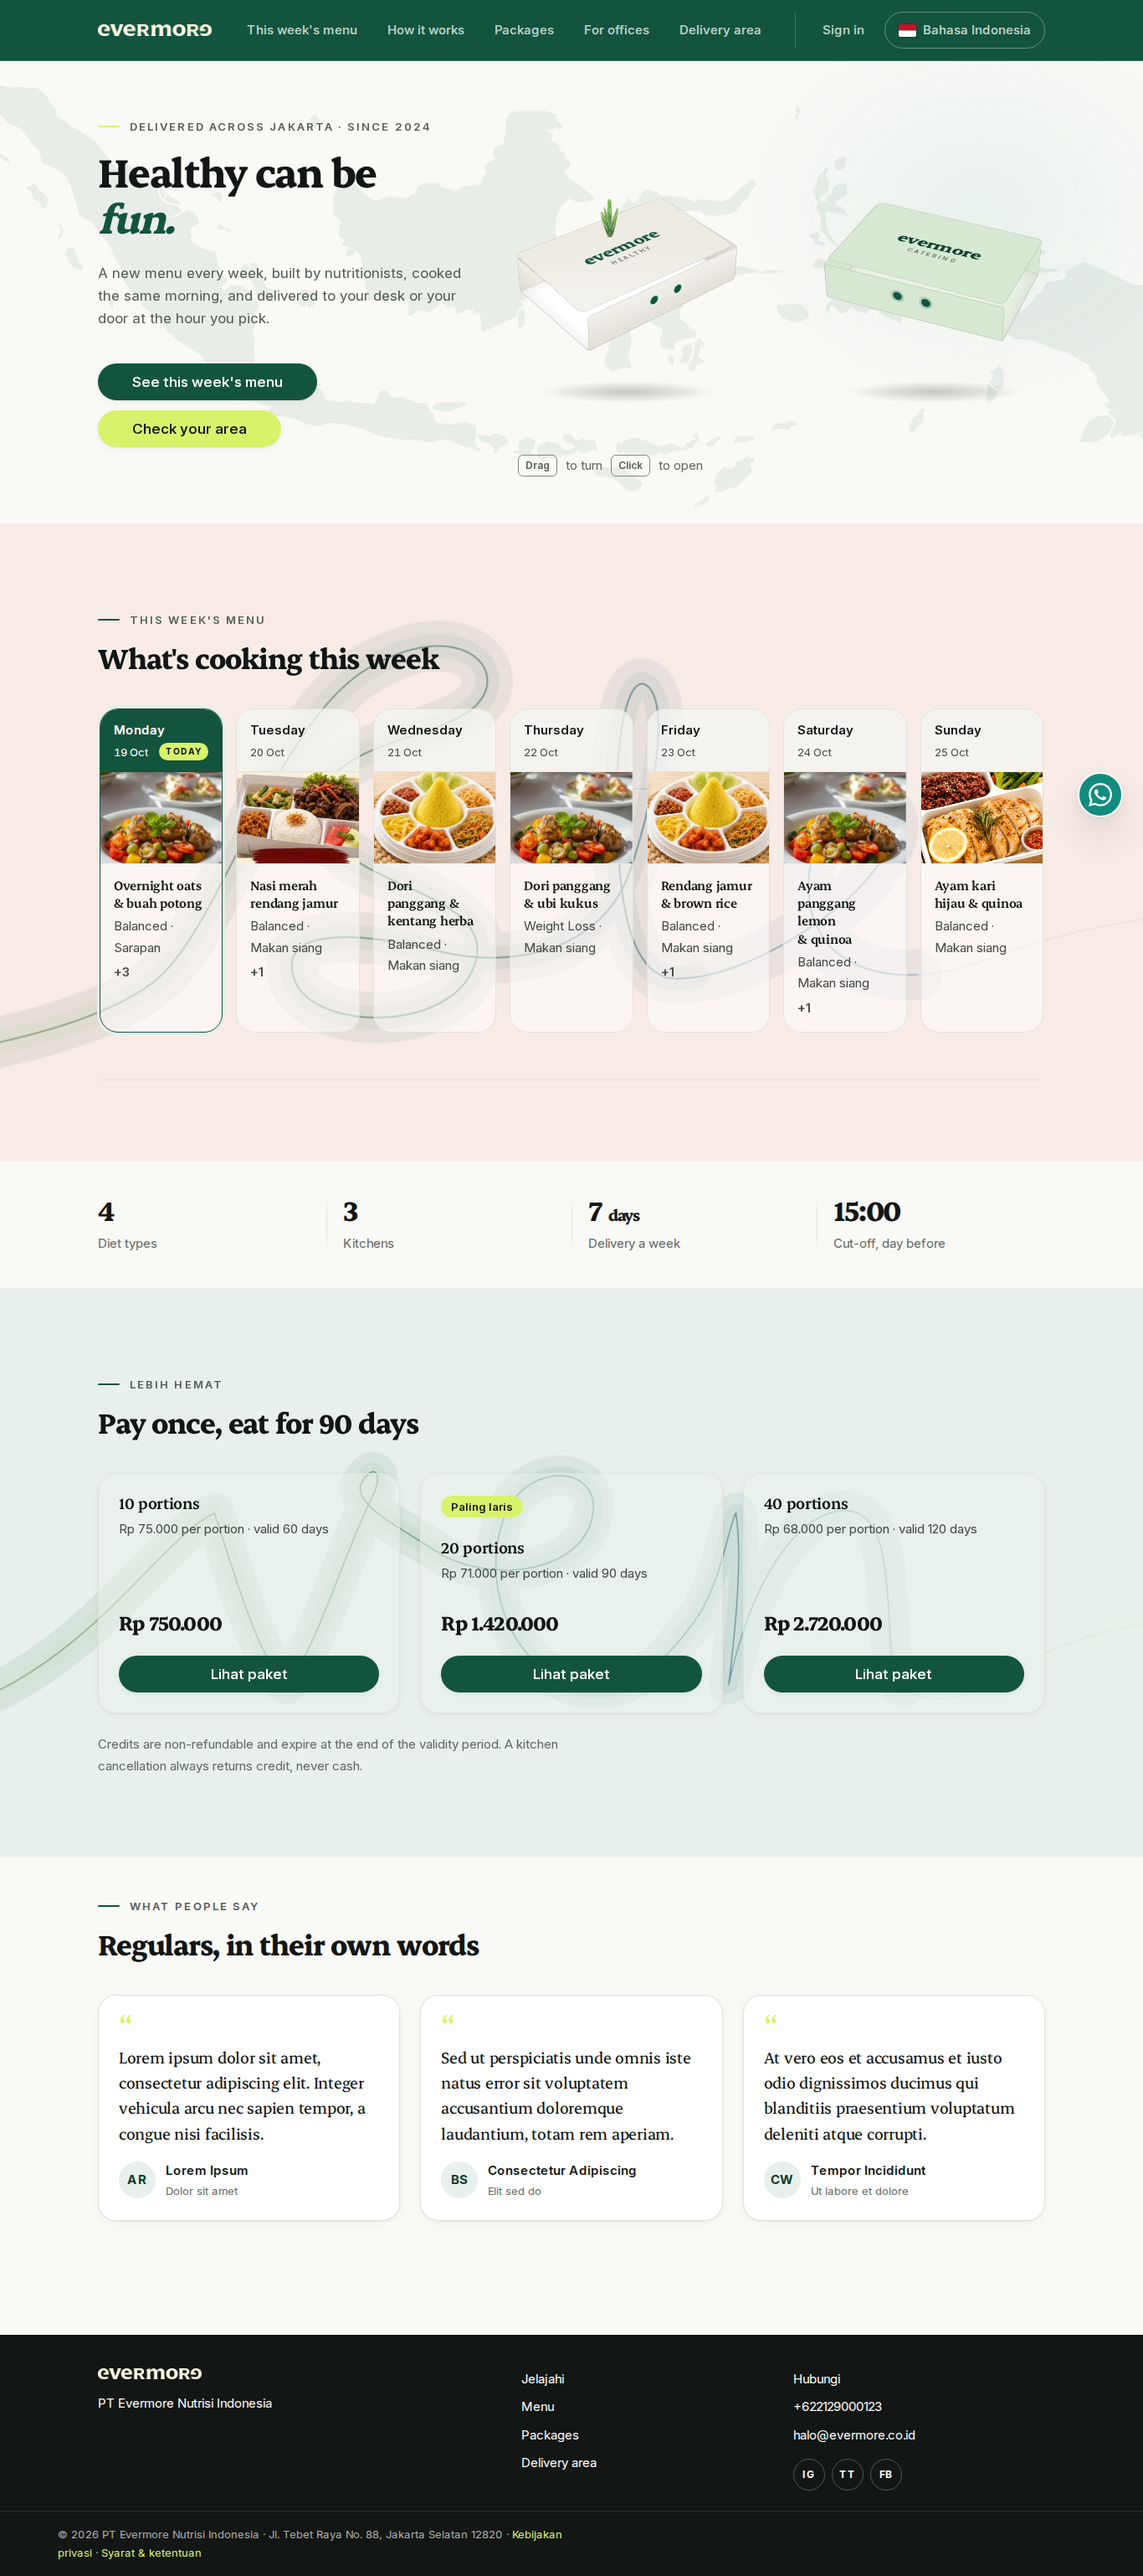
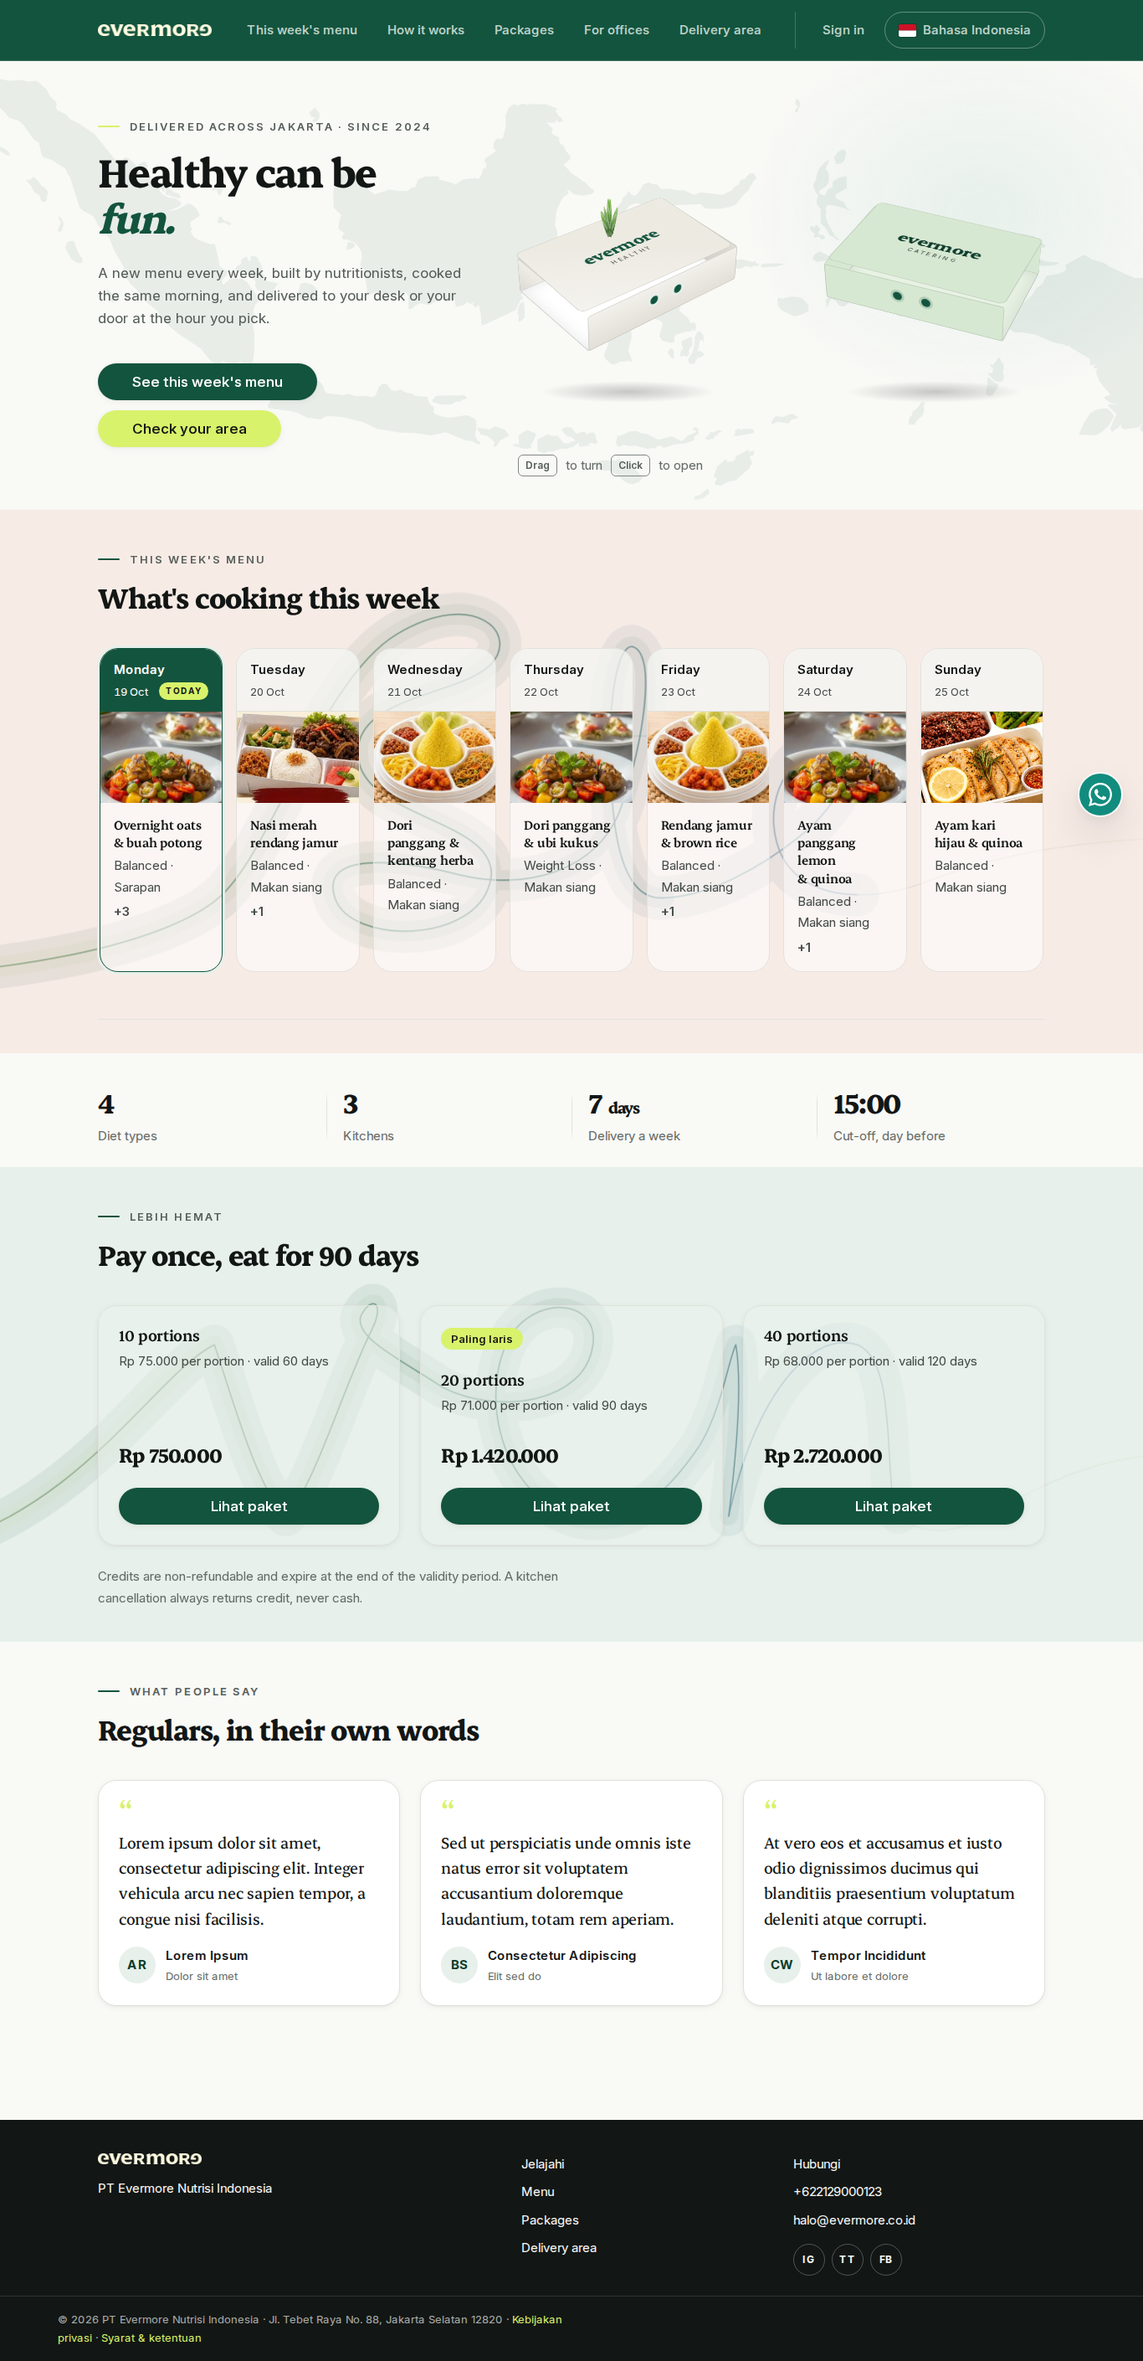
fix(home): cut the dead space above the banded headings
Measured, because "more than 5cm" deserved a number: 202px above "This week's
menu" and 162px above "Lebih hemat". Now 88px and 90px, and the page is 256px
shorter overall.

The cause was D65. Giving the bands --space-8 padding was right in isolation,
but it stacked on top of the previous section's own bottom padding, so every
seam paid twice. A band does not need 96px of lead-in when the colour change is
already doing the separating: the bands drop to --space-6, and the section
handing over to one gives up most of its trailing padding.

Checked at 1366, 1024 and 390px. The week seam is 88px at the two desktop
widths and 106px on a phone, where the hero hint wraps.

go vet, go test ./... (11 packages), contrast.py 82/82 with the sheet
cross-checked, verify-ui.mjs 0 FAIL.

Claude-Session: https://claude.ai/code/session_01StbHwjwkd6bzSruyyhJNYm

diff --git a/web/public/css/app.css b/web/public/css/app.css
@@ -69,7 +69,7 @@ main { flex: 1 0 auto; }
 /* Unless it is a band. Zero trailing padding was right when the section was
  * the same colour as everything around it; on a block of colour it cuts the
  * band off flush against the cards (D65). */
-#week.band-linen { padding-bottom: var(--space-8); }
+#week.band-linen { padding-bottom: var(--space-6); }
 #week + .section { padding-top: var(--space-6); }
 
 /* The hero already supplies the space above whatever follows it. */
@@ -78,7 +78,7 @@ main { flex: 1 0 auto; }
  * them opened ~192px of empty page. The second one halves its top. */
 .section + .section { padding-top: var(--space-6); }
 .section.tight { padding-block: var(--space-5); }
-.section.tight { padding-block: var(--space-6); }
+.section.tight { padding-block: var(--space-6) var(--space-5); }
 /* D65 — the body is banded, not one flat sheet.
  *
  * Three grounds down the page instead of one, each carrying a bit of meaning:
@@ -98,9 +98,16 @@ main { flex: 1 0 auto; }
 .band-wash   { background: var(--brand-wash); }
 /* A band is a block of colour, so it keeps even padding — `.section + .section`
  * trims the top of a run of plain sections, which would leave it lopsided. */
+/* A band needs enough padding to breathe and no more. At --space-8 it stacked
+ * 96px on top of the previous section's own bottom padding, which put 202px —
+ * over 5cm — of nothing above "This week's menu" (D68). */
 .section.band-raised,
 .section.band-linen,
-.section.band-wash { padding-block: var(--space-8); }
+.section.band-wash { padding-block: var(--space-6); }
+/* And the section handing over to a band gives up most of its trailing
+ * padding, since the colour change already does the separating. */
+.hero-full + .band-linen,
+.hero-full + .band-wash { margin-top: 0; }
 
 /* Editorial, not centred. The head sits in a narrow measure on the left and
  * the content runs wider beneath it — asymmetry is what keeps a page from
@@ -833,7 +840,7 @@ tbody tr:hover { background: var(--warm); }
 /* The hero opened with ~148px of nothing above the eyebrow once the sticky
  * header arrived. The header already supplies that separation. */
 .hero-full { padding-block: var(--space-4) var(--space-5); }
-@media (min-width: 1024px) { .hero-full { padding-block: var(--space-5) var(--space-6); } }
+@media (min-width: 1024px) { .hero-full { padding-block: var(--space-5) var(--space-5); } }
 
 /* The header was a flat row of identical links. Three changes: a hairline
  * under the hovered or current item so the target is unmistakable, a real

diff --git a/docs/00-README-and-decisions.md b/docs/00-README-and-decisions.md
@@ -148,6 +148,7 @@ in the affected docs the same day.
 | D65 | 2026-10-19 | **The home body runs on three grounds instead of one: warm behind the week strip, brand-wash behind the packages, paper for the stats row and testimonials.** | Steven — the body was *"too plain"* and wanted separating. The two tinted blocks never touch; the stats row sits between them as a breather. **The dark theme decided which band went where:** `--brand`, the `+N` link on a day card, measures 4.39 on glass over a green band and fails, but 4.58 over the warm one — so the week strip is warm and packages are green, not the other way round. Twelve new pairings, since a band changes what every translucent surface above it composites onto. `#week`'s `padding-bottom: 0` (a D49 white-space fix) had to be undone for the banded case: zero trailing padding cuts a block of colour off flush against the cards. | app.css, home.html, contrast.py, 10-design-system.md |
 | D66 | 2026-10-19 | **The week strip's band changes from beige to a pale citrus, `--band-fresh`.** | Steven did not want light brown. Four replacements were measured before one cleared: `--info-wash` blue fails at **4.48** and a citrus band built from `--accent-wash` at **4.34**, both on the same check — `--brand`, the `+N` link on a glass day card, in the dark theme. `--band-fresh` is therefore its own token with its own dark value (`#1A1F13`, not `--accent-wash`'s `#2A3318`), where that link measures 4.60. The rejected citrus is kept in the sheet as a recorded failure. | tokens.css, app.css, home.html, contrast.py, 10-design-system.md |
 | D67 | 2026-10-19 | **The week strip's band becomes `--band-linen` — a warm neutral with a faint pink cast.** | Steven rejected both the beige and the citrus, and asked for something more human. Five warm candidates were measured first and two were ruled out before he saw them: clay rose (`--ink-faint` **4.48** on the band) and a sand-rose (4.39). He chose blush linen from the three that cleared. It keeps its own dark value, `#211B1A`. | tokens.css, app.css, home.html, contrast.py, 10-design-system.md |
+| D68 | 2026-10-19 | **The dead space above `This week's menu` and `Lebih hemat` is cut from 202px and 162px to 88px and 90px.** | Steven, and he was right — it measured **5.4cm**. Bands were given `--space-8` padding in D65, which then stacked on top of the previous section's own bottom padding; the colour change already does the separating, so the band drops to `--space-6` and the section handing over to it gives up most of its trailing padding. The page is 256px shorter. Measured at 1366/1024/390, not eyeballed. | app.css |
 
 ---
 
